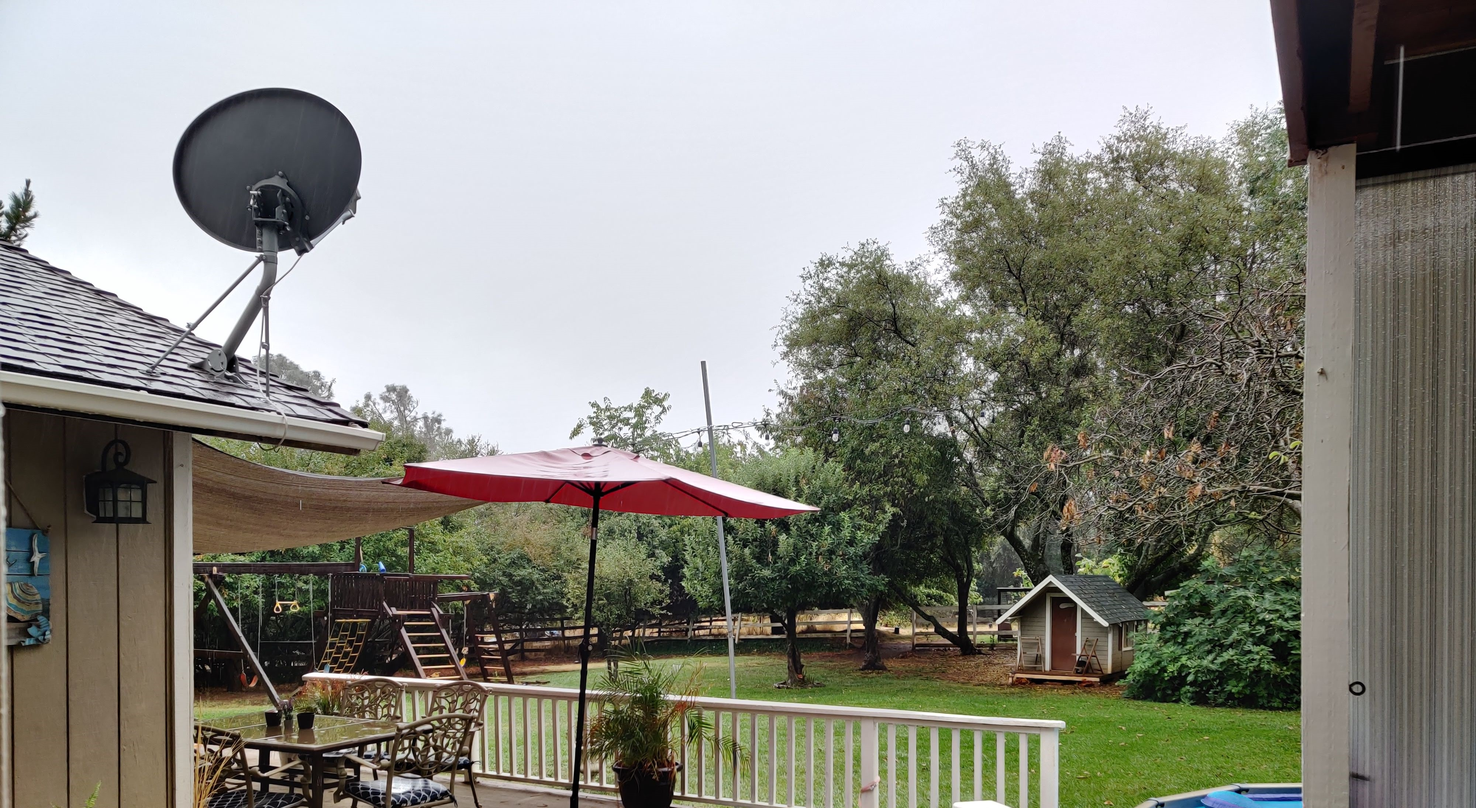
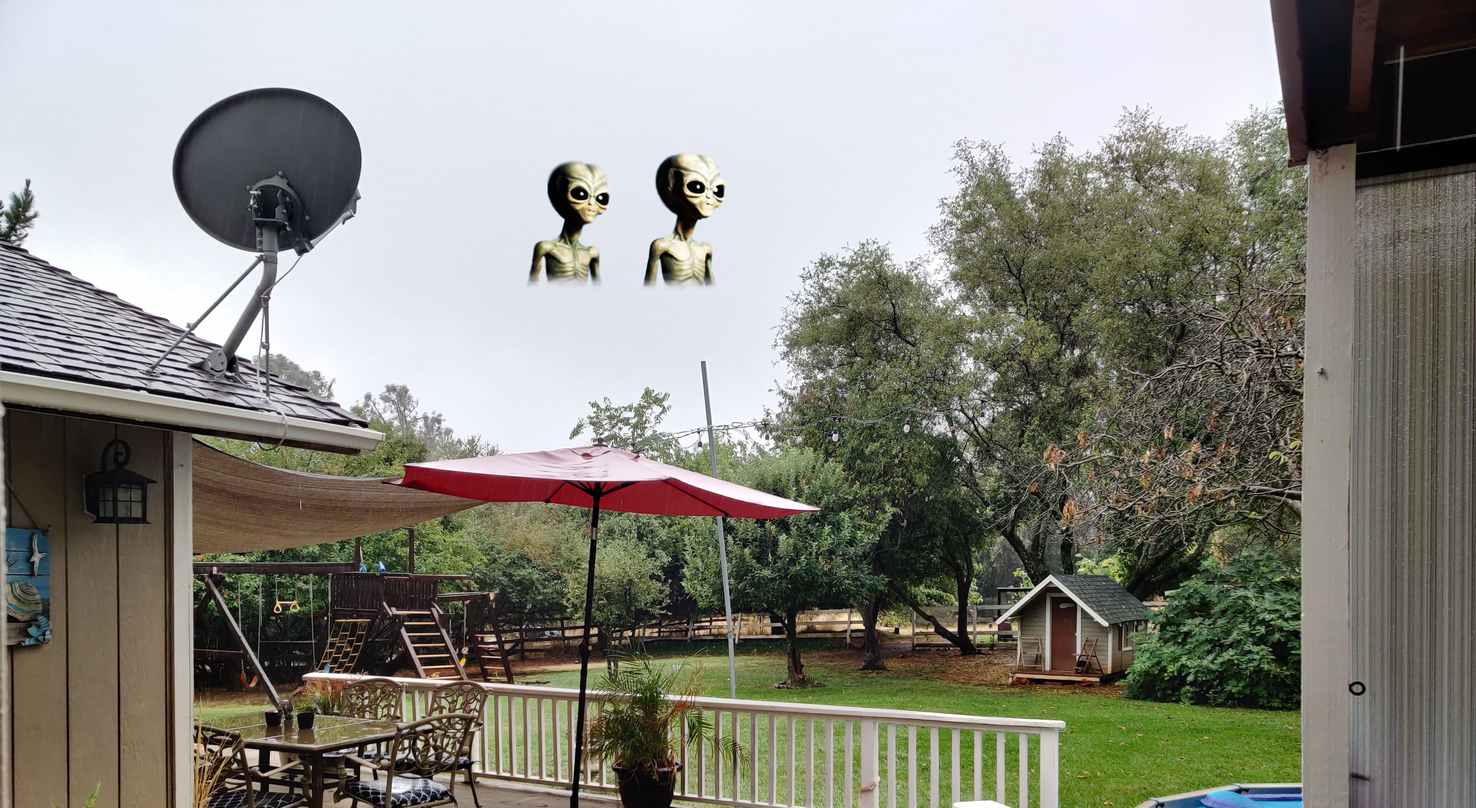
updated alien image, added buy now page

Changed region(s): [[0.3438, 0.1861, 0.5, 0.3723]]

diff --git a/src/components/navbar.js b/src/components/navbar.js
@@ -3,6 +3,8 @@ import { jsx, css } from '@emotion/core';
 import React from 'react';
 import { NavLink, Link } from 'react-router-dom';
 
+import BuyButton from './buyButton';
+
 const navlinks = css`
   display: flex;
   margin: 0;
@@ -48,19 +50,9 @@ const titlebar = css`
     text-decoration: none;
     color: black;
   }
-
-  #buy-now {
-    padding-top: 20px;
-    padding-right: 10px;
-  }
-  #buy-now a {
-    padding: 10px;
-    text-decoration: none;
-    color: ghostwhite;
-    background-color: crimson;
-    border-radius: 10px;
-  }
 `;
+
+
 
 export default function Navbar(props) {
   return (
@@ -69,9 +61,7 @@ export default function Navbar(props) {
         <h1>
           <Link to='/'>ghost4real.com</Link>
         </h1>
-        <div id="buy-now">
-            <NavLink to='/buy-now'> BUY NOW!!! </NavLink>
-        </div>
+        <BuyButton path='/buy-now' text='BUY NOW!!!'/>
       </div>
       
       <ul css={navlinks}>

diff --git a/src/pages/buyNow.js b/src/pages/buyNow.js
@@ -2,11 +2,32 @@
 import { jsx, css } from '@emotion/core';
 import React from 'react';
 
+import buyNow from '../data/buyNow.json';
+import BuyButton from '../components/buyButton';
+
+const style = css`
+  display: flex;
+  flex-wrap: wrap;
+  justify-content: space-evenly;
+
+  img {
+    max-width: 400px;
+  }
+`;
+
 export default function BuyNow(props) {
 
   return (
-    <div>
-      <h1>BUY NOW</h1>
+    <div css={style}>
+      <img src={require(`../${buyNow.photo}`)}/>
+      <div>
+        <h2>{buyNow.title}</h2>
+        <div>{buyNow.description}</div>
+      </div>
+      <div id="buy-box">
+        <h3>${buyNow.price}</h3>
+        <BuyButton path='/cart' text='Buy Now'/>
+      </div>
     </div>
   );
 }

diff --git a/src/pages/aliens.js b/src/pages/aliens.js
@@ -6,12 +6,18 @@ import aliens from '../data/aliens.json';
 
 const style = css`
   padding: 0 40px 0 40px;
+  display: flex;
+  flex-direction: column;
+  align-items: center;
+
   img {
     width: 100%;
+    max-width: 1000px;
   }
 
   #holder {
     margin-top: 15px;
+    max-width: 1000px;
   }
 `;
 
@@ -20,7 +26,7 @@ export default function Aliens(props) {
   return (
     <div css={style}>
       <h2>{aliens.tagline}</h2>
-      <img src={require('../images/sky.jpg')}/>
+      <img src={require(`../${aliens.photo}`)}/>
       {aliens.body.map(body => (
         <div id="holder">
           {body}

diff --git a/src/components/buyButton.js b/src/components/buyButton.js
@@ -1,0 +1,26 @@
+/** @jsx jsx */
+import { jsx, css } from '@emotion/core';
+import React from 'react';
+import { NavLink, Link } from 'react-router-dom';
+
+const buttonStyle = css`
+  padding-top: 20px;
+  padding-right: 10px;
+
+  a {
+    padding: 10px;
+    text-decoration: none;
+    color: ghostwhite;
+    background-color: crimson;
+    border-radius: 10px;
+  }
+`;
+
+export default function BuyButton(props) {
+
+  return (
+    <div css={buttonStyle}>
+      <NavLink to={props.path}> {props.text} </NavLink>
+    </div>
+  );
+}

diff --git a/src/pages/photos.js b/src/pages/photos.js
@@ -6,7 +6,7 @@ import images from '../data/images.json';
 
 const imageHolder = css`
   display: flex;
-  justify-content: space-evenly;
+  ${'' /* justify-content: space-evenly; */}
   flex-wrap: wrap;
   margin: 10px;
 
@@ -17,7 +17,7 @@ const imageHolder = css`
 
   div {
     padding: 10px;
-    margin: 5px;
+    margin: 15px 25px;
     width: 300px;
     background-color: ghostwhite;
     border-radius: 10px;

diff --git a/src/pages/testimonials.js b/src/pages/testimonials.js
@@ -6,13 +6,13 @@ import testimonials from '../data/testimonials.json';
 
 const testimonialHolder = css`
   display: flex;
-  justify-content: space-evenly;
+  justify-content: start;
   flex-wrap: wrap;
   margin: 10px;
 
   #testimonial {
     padding: 10px;
-    margin: 5px;
+    margin: 15px;
     width: 350px;
     background-color: ghostwhite;
     border-radius: 10px;

diff --git a/src/App.js b/src/App.js
@@ -30,9 +30,9 @@ function App() {
           <Route path='/aliens'>
             <Aliens/>
           </Route>
-          {/* <Route path='/buy-now'>
+          <Route path='/buy-now'>
             <BuyNow/>
-          </Route> */}
+          </Route>
           <Route path="*">
             <Lost/>
           </Route>
